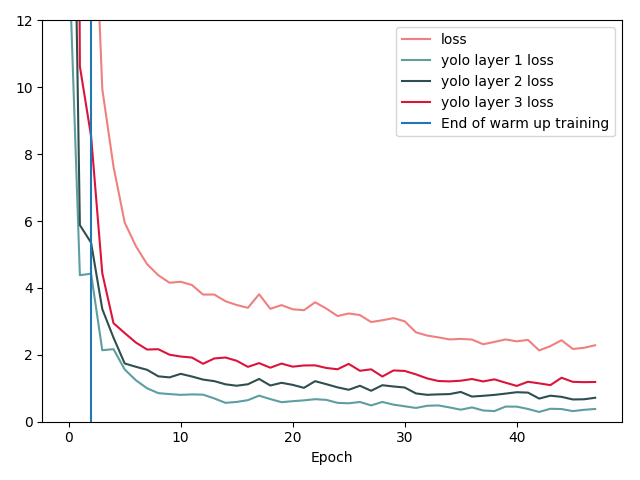
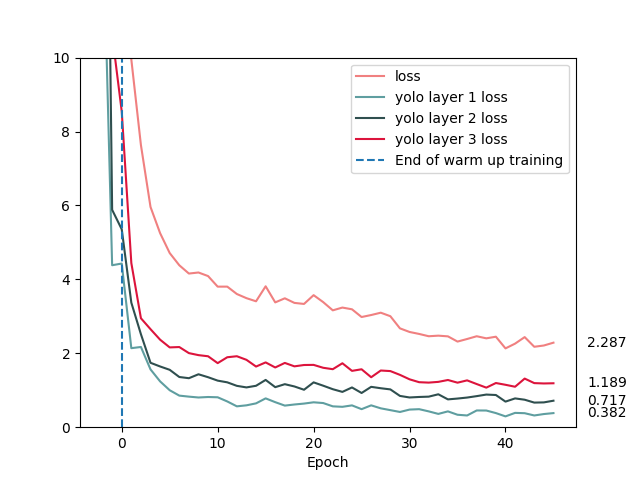
Different hyperparemeters

diff --git a/yolo/reproduce_results.py b/yolo/reproduce_results.py
@@ -1,29 +1,32 @@
 #!/usr/bin/env python
 import pickle
 
-import matplotlib
-
-matplotlib.use('agg')
 import matplotlib.pyplot as plt
+import numpy as np
 
-matplotlib.use('agg')
+# matplotlib.use('agg')
 
 plot_save_dir = 'report/plots/'
 history_dir = 'histories/'
 
 
 def main():
-    process('face_01_06_15-25')
+    hist1_name = 'face_01_06_15-25'
+    hist2_name = 'face_05_06_15-08'
+    # TODO: add even smaller input size and batch size = 8 or 16
+    process_history(hist1_name)
+    process_history(hist2_name)
+    compare_2_histories(hist1_name, hist2_name, '288x488, bs=2', '128x288, bs=4')
 
 
-def process(hist_name):
+def process_history(hist_name):
     hist = load_history(history_dir + hist_name)
     save_loss_history(hist, plot_save_dir + 'yolo_hist_loss_' + hist_name + '.png')
     save_map_history(history_dir + hist_name + '_mAP.txt', plot_save_dir + 'yolo_hist_map_' + hist_name + '.png')
 
 
 def load_history(path):
-    filename = open(path, "rb")
+    filename = open(path, 'rb')
     history = pickle.load(filename)
     filename.close()
     return history
@@ -36,15 +39,20 @@ def save_loss_history(hist, path):
     l3 = 'yolo layer 3 loss'
 
     plt.figure()
-    plt.plot(hist['loss'], label=l, color='lightcoral')
-    plt.plot(hist['yolo_layer_1_loss'], label=l1, color='cadetblue')
-    plt.plot(hist['yolo_layer_2_loss'], label=l2, color='darkslategray')
-    plt.plot(hist['yolo_layer_3_loss'], label=l3, color='crimson')
+    x = np.arange(-2, len(hist['loss']) - 2)
+    plt.plot(x, hist['loss'], label=l, color='lightcoral')
+    plt.plot(x, hist['yolo_layer_1_loss'], label=l1, color='cadetblue')
+    plt.plot(x, hist['yolo_layer_2_loss'], label=l2, color='darkslategray')
+    plt.plot(x, hist['yolo_layer_3_loss'], label=l3, color='crimson')
+
+    for var in (hist['loss'], hist['yolo_layer_1_loss'], hist['yolo_layer_2_loss'], hist['yolo_layer_3_loss']):
+        plt.annotate('%0.3f' % var[-1], xy=(1, var[-1]), xytext=(8, 0), va='center',
+                     xycoords=('axes fraction', 'data'), textcoords='offset points')
+
     plt.xlabel('Epoch')
-    plt.ylim(ymax=12, ymin=0)
-    plt.axvline(x=2, label='End of warm up training')
+    plt.ylim(ymax=10, ymin=0)
+    plt.axvline(x=0, label='End of warm up training', linestyle='dashed')
     plt.legend(loc='upper right')
-    plt.tight_layout()
     plt.savefig(path)
 
 
@@ -55,42 +63,88 @@ def save_map_history(map_path, save_path):
         str_list = numbers.split('\n')
         str_list.pop()
         float_list = [float(x) for x in str_list]
+        x = np.arange(-2, len(float_list) - 2)
         plt.figure()
-        plt.plot(float_list, label=l, color='lightcoral')
+        plt.plot(x, float_list, label=l, color='lightcoral')
+        plt.annotate('%0.3f' % float_list[-1], xy=(1, float_list[-1]), xytext=(8, 0), va='center',
+                     xycoords=('axes fraction', 'data'), textcoords='offset points')
         plt.xlabel('Epoch')
-        plt.axvline(x=2, label='End of warm up training')
+        plt.axvline(x=0, label='End of warm up training', linestyle='dashed')
         plt.legend(loc='lower right')
-        plt.tight_layout()
         plt.savefig(save_path)
 
 
-def compare_2_histories(hist1, hist2, label1, label2, path_acc, path_loss):
-    l1t = label1 + ' train'
-    l1v = label1 + ' validation'
-    l2t = label2 + ' train'
-    l2v = label2 + ' validation'
+def compare_2_histories(hist_name1, hist_name2, label1, label2):
+    hist1 = load_history(history_dir + hist_name1)
+    hist2 = load_history(history_dir + hist_name2)
+    path_map1 = history_dir + hist_name1 + '_mAP.txt'
+    path_map2 = history_dir + hist_name2 + '_mAP.txt'
+    path_loss = plot_save_dir + 'compare_loss_' + hist_name1 + '-' + hist_name2 + '.png'
+    map_save_path = plot_save_dir + 'compare_map_' + hist_name1 + '-' + hist_name2 + '.png'
+
+    h1_l = label1 + ' loss'
+    h1_l1 = label1 + ' yolo layer 1 loss'
+    h1_l2 = label1 + ' yolo layer 2 loss'
+    h1_l3 = label1 + ' yolo layer 3 loss'
+    h2_l = label2 + ' loss'
+    h2_l1 = label2 + ' yolo layer 1 loss'
+    h2_l2 = label2 + ' yolo layer 2 loss'
+    h2_l3 = label2 + ' yolo layer 3 loss'
+
+    n = min(len(hist1['loss']), len(hist2['loss']))
+    x = np.arange(-2, n - 2)
 
     plt.figure()
-    plt.plot(hist1['acc'], label=l1t, color='firebrick')
-    plt.plot(hist1['val_acc'], label=l1v, color='orangered')
-    plt.plot(hist2['acc'], label=l2t, color='springgreen')
-    plt.plot(hist2['val_acc'], label=l2v, color='forestgreen')
-    plt.xlabel('Epoch')
-    plt.ylabel('Accuracy')
-    plt.legend(loc='lower right')
-    plt.tight_layout()
-    plt.savefig(path_acc)
+    plt.plot(x, hist1['loss'][:n], label=h1_l, color='#f57c00', linestyle='-.')
+    plt.plot(x, hist1['yolo_layer_1_loss'][:n], label=h1_l1, color='#ffc947', linestyle='-.')
+    plt.plot(x, hist1['yolo_layer_2_loss'][:n], label=h1_l2, color='#ff9800', linestyle='-.')
+    plt.plot(x, hist1['yolo_layer_3_loss'][:n], label=h1_l3, color='#c66900', linestyle='-.')
+    plt.plot(x, hist2['loss'][:n], label=h2_l, color='#0288d1')
+    plt.plot(x, hist2['yolo_layer_1_loss'][:n], label=h2_l1, color='#67daff')
+    plt.plot(x, hist2['yolo_layer_2_loss'][:n], label=h2_l2, color='#03a9f4')
+    plt.plot(x, hist2['yolo_layer_3_loss'][:n], label=h2_l3, color='#007ac1')
 
-    plt.figure()
-    plt.plot(hist1['loss'], label=l1t, color='firebrick')
-    plt.plot(hist1['val_loss'], label=l1v, color='orangered')
-    plt.plot(hist2['loss'], label=l2t, color='springgreen')
-    plt.plot(hist2['val_loss'], label=l2v, color='forestgreen')
+    # for var in (
+    #         hist1['loss'][:n], hist1['yolo_layer_1_loss'][:n],
+    #         hist1['yolo_layer_2_loss'][:n], hist1['yolo_layer_3_loss'][:n],
+    #         hist2['loss'][:n], hist2['yolo_layer_1_loss'][:n],
+    #         hist2['yolo_layer_2_loss'][:n], hist2['yolo_layer_3_loss'][:n]):
+    #     plt.annotate('%0.3f' % var[-1], xy=(1, var[-1]), xytext=(8, 0), va='center',
+    #                  xycoords=('axes fraction', 'data'), textcoords='offset points')
+
     plt.xlabel('Epoch')
-    plt.ylabel('Loss')
+    plt.ylim(ymax=12, ymin=0)
+    plt.xlim(xmin=-3)
+    plt.axvline(x=0, label='End of warm up training', linestyle='dotted')
     plt.legend(loc='upper right')
-    plt.tight_layout()
     plt.savefig(path_loss)
+
+    h1_l = label1 + ' Mean Average Precision at 0.5'
+    h2_l = label2 + ' Mean Average Precision at 0.5'
+    with open(path_map1) as f1:
+        with open(path_map2) as f2:
+            numbers1 = f1.read()
+            str_list1 = numbers1.split('\n')
+            str_list1.pop()
+            float_list1 = [float(x) for x in str_list1]
+
+            numbers2 = f2.read()
+            str_list2 = numbers2.split('\n')
+            str_list2.pop()
+            float_list2 = [float(x) for x in str_list2]
+
+            plt.figure()
+            plt.plot(x, float_list1[:n], label=h1_l)
+            plt.plot(x, float_list2[:n], label=h2_l)
+
+            # for var in (float_list1[:n], float_list2[:n]):
+            #     plt.annotate('%0.3f' % var[-1], xy=(1, var[-1]), xytext=(8, 0), va='center',
+            #                  xycoords=('axes fraction', 'data'), textcoords='offset points')
+
+            plt.xlabel('Epoch')
+            plt.axvline(x=0, label='End of warm up training', linestyle='dotted')
+            plt.legend(loc='lower right')
+            plt.savefig(map_save_path)
 
 
 if __name__ == '__main__':
